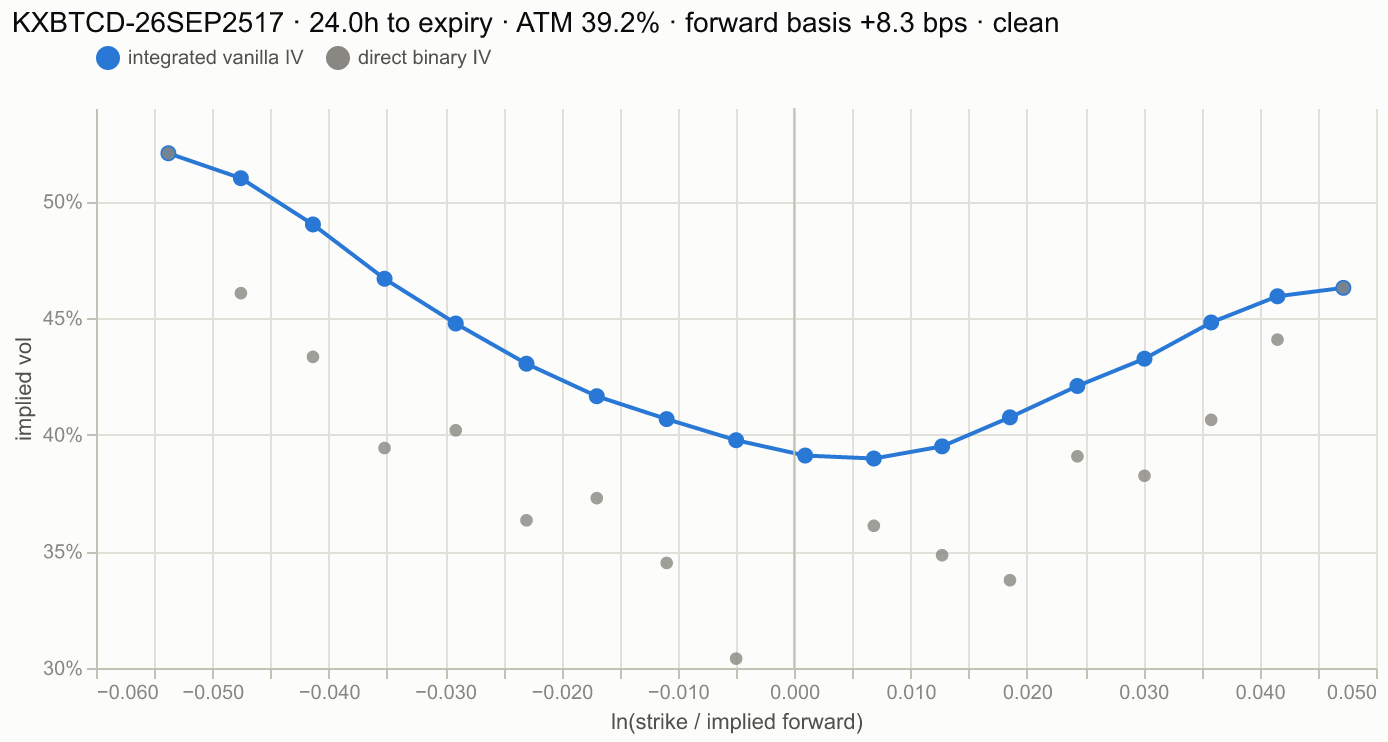
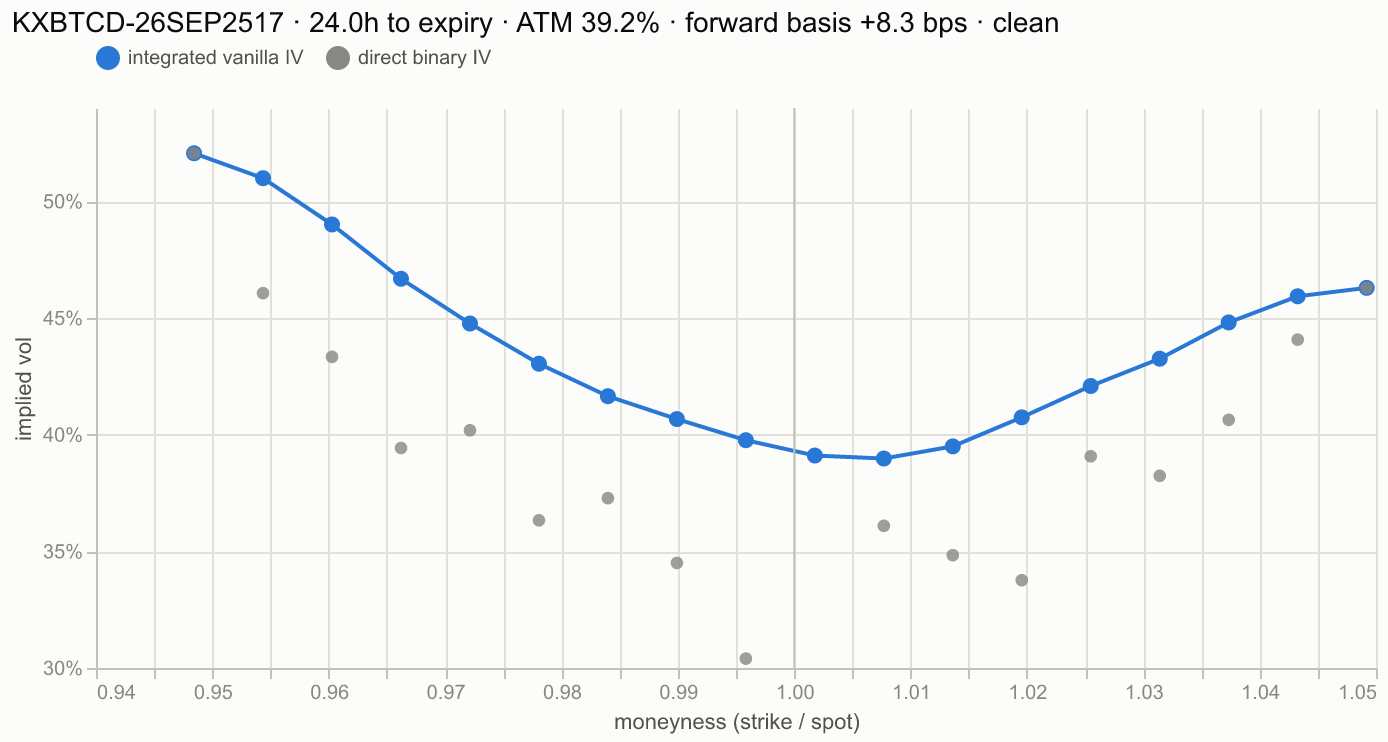
Show the implied-vol surface by moneyness (strike / spot)
- 03_iv_surface.py: smile explorer, heatmap and both 3D surfaces now use
  moneyness = strike / spot on the x-axis (0.85-1.15), replacing
  standard deviations from the forward; the strike table gains a
  moneyness column. Vols are still computed against the forward implied
  by put-call parity.
- outputs/: figures and 3D surface regenerated.
- progress.md: note the moneyness axis.

diff --git a/outputs/iv_surface_3d.html b/outputs/iv_surface_3d.html
@@ -6,6 +6,6 @@
 </head>
 <body>
     <div style="height:600px; width:100%;">                        <script>window.PlotlyConfig = {MathJaxConfig: 'local'};</script>
-        <script charset="utf-8" src="https://cdn.plot.ly/plotly-4.1.1.min.js" integrity="sha256-O24V1F27f8pb0glCkelh3cVHLNiHAJ5gCaVtq2aNch8=" crossorigin="anonymous"></script>                <div id="a7ef97c5-0528-423f-81a9-f02e390c1257" class="plotly-graph-div" style="height:100%; width:100%;"></div>            <script>                window.PLOTLYENV=window.PLOTLYENV || {};                                if (document.getElementById("a7ef97c5-0528-423f-81a9-f02e390c1257")) {                    Plotly.newPlot(                        "a7ef97c5-0528-423f-81a9-f02e390c1257",                        [{"cmax":0.9,"cmin":0.35,"colorbar":{"tickformat":".0%","title":{"text":"IV"}},"colorscale":[[0,"#cde2fb"],[1,"#0d366b"]],"hovertemplate":"SDs from forward %{x:.2f}\u003cbr\u003ehours to expiry %{y:.1f}\u003cbr\u003eimplied vol %{z:.1%}\u003cextra\u003e\u003c\u002fextra\u003e","x":[-2.875,-2.625,-2.375,-2.125,-1.875,-1.625,-1.375,-1.125,-0.875,-0.625,-0.375,-0.125,0.125,0.375,0.625,0.875,1.125,1.375,1.625,1.875,2.125,2.375,2.625,2.875],"y":[1.5,2.5,3.5,5.0,7.0,10.0,14.0,20.0,30.0,42.0,60.0,84.0,108.0,132.0,156.25],"z":{"dtype":"f8","bdata":"AAAAAAAA+H8AAAAAAAD4fwAAAAAAAPh\u002fAAAAAAAA+H8AAAAAAAD4fwAAAAAAAPh\u002fAAAAAAAA+H8AAAAAAAD4fwAAAAAAAPh\u002fAAAAAAAA+H8AAAAAAAD4fwAAAAAAAPh\u002fAAAAAAAA+H8AAAAAAAD4fwAAAAAAAPh\u002fAAAAAAAA+H8AAAAAAAD4fwAAAAAAAPh\u002fAAAAAAAA+H8AAAAAAAD4fwAAAAAAAPh\u002fAAAAAAAA+H8AAAAAAAD4fwAAAAAAAPh\u002fAAAAAAAA+H8AAAAAAAD4fwAAAAAAAPh\u002fAAAAAAAA+H8AAAAAAAD4fwAAAAAAAPh\u002fAAAAAAAA+H8AAAAAAAD4fwAAAAAAAPh\u002fAAAAAAAA+H8AAAAAAAD4fwAAAAAAAPh\u002fAAAAAAAA+H8AAAAAAAD4fwAAAAAAAPh\u002fAAAAAAAA+H8AAAAAAAD4fwAAAAAAAPh\u002fAAAAAAAA+H8AAAAAAAD4fwAAAAAAAPh\u002fAAAAAAAA+H8AAAAAAAD4fwAAAAAAAPh\u002fAAAAAAAA+H+8TRtVIxzzPwK0E6TVQu8\u002fVVWbVFpU7T+82jOJtSTtP3g3iFjgZ+o\u002fBFYpvztj6T\u002feZgIJFZfnPzozrrg5suY\u002fx8dYc+gu5j\u002fCIjyqhVfmP6Wt35YOc+Y\u002fzEAWdVuT5j8OfMNrvoPnP1fYnsUjbeg\u002folS4QYL06T8aacHOmDrsP8JrP7kHAe4\u002ftI\u002fX3YSF7z90M818CLHxP44ls4P1ivE\u002feHgUJ2cC9D8AAAAAAAD4fwAAAAAAAPh\u002fHyH1slBk8D\u002fabUkbd6DvP36WXBpuous\u002fsGTfF3nl6j+SQxSii0XsP5hBWpkLzuk\u002fPNSdP4n06D+CIGCVSQjoP8dzUW+eSec\u002flbvoGAqz5j+s4uksIhPmP6bJNKMWSeY\u002fYFlOkw9F5j8ML0gxTu3lP9qL8SSFyuY\u002f4M+Uv\u002fZE5j8AfpSYNR3nP26jpepAteg\u002fOpI46Lws6T\u002fblDc9vBDpP0CsWm\u002f9Peo\u002f0GO7\u002fJuj7z+zMIEK5ffwPyYNUPkeb\u002fI\u002fy4RvyK2t8T+6PhLB\u002f8\u002fvP7I5VWKMv+w\u002fT9IBuXSa6z8SbrBhLBHqPxULKdcxuOg\u002fpsn\u002fHugB5z9yxodhDGToP7lrR1TOEec\u002fD7qkUPY85j8dnuEw8OblP8olAhLt4uU\u002fM0U\u002f1JiF5T8Of5efsE3lP1U+zc5qw+U\u002f17+XUJ0j5j\u002fwdF5rLLzmP6fgv4F6juc\u002fPY0jyFiL6D8t19aqCDnoP5iKt3vwuuo\u002f7L0NmKwI7D9MCRaGagPuP8adl1HmW\u002fA\u002fYALqu2o98D\u002fuq4ujIv3rP2zVUaJkhuc\u002fRMePxgbN5j8lyqqnw2blP1pmopmvl+Q\u002fcjcGisUj5D8fzXMuFUzjP3QkSHaUNuM\u002f3y30I+Zg4j\u002f2uHpRQwbiP9OeSrhJ+uE\u002fD92+4GYU4j+aQ693PxDiPzYVudUNZuI\u002fJqo1oZPl4j\u002fi6WakWk3jP4h1ixGh8eM\u002f0JOg6LJB5D+5Jg6DEg7lPx6lkDpGbOY\u002fJumZsRIJ6T9QuR\u002fzonzpP9gkJstbE+s\u002f3l4pcFER7T\u002f9pL13fW3pPy2miKIBUOQ\u002ftX\u002flw2Ol4z9uTAKFRmbjP0AZjaJykuI\u002fBgdxcZNK4j+MXfZgHVjhP6ixxJFtE+E\u002fcP8J6+Gs4D90dzDo7HPgPzXt\u002fan\u002fPuA\u002fNiBohpYs4D9de9dcWZbgP+wFFg4ua+A\u002fjsw9UsPv4D+ufZJwcjThP7zrmdXyz+E\u002f2t9pi1o74j9MpvgBIcfiP7J0mMLZP+Q\u002f3i\u002fEYB8d5T9L1DXEHVfoP1NoYw+hz+Y\u002f1adeorNe6j+4PgzZkoDnPxK6nSb+\u002fuI\u002fmxAAWFOY4j+JLmHHtg7iP9jlKJrtv+E\u002fC4oXptA24T9OGvvSg+jgP1jwH2f4h+A\u002fXhGhhVpg4D\u002f+Ir7COxrgPwd22m1wKeA\u002fkIPs09Ee4D8B+P+DQu\u002ffPx2jYbJ6UuA\u002fOhDY6XbD4D\u002fLBnJDiaPgPzKMh4LAJuE\u002fHUOPsoXO4T\u002f54SphJ1biP2r3q06xeOI\u002fOLAOmBTb4z+WmuPJYGPkP4PCSNp9UOg\u002fxkeWffVs6T8gsR2apcbkP3m9ke8G6OM\u002fdH0qIbPA4j\u002fBVxwvKfnhP1\u002feYis6XuE\u002fi\u002fKGEECM4D8K0nfh4GLgPyiH4zfFAuA\u002f+mdOtZo83z\u002fgQQo7+g3fP25sK5m\u002fnd4\u002f28G7Oa6+3j9GobGieuDeP7X34bq7P98\u002fyLZxVbAg4D\u002f+OjXrRHzgP0hz9EVf2uA\u002fbrDnoEZ24T+gHZ0nLMThP76fOfNGZ+I\u002f9mHGZ+Aj4z8q+E2mIeXkP3waeru9d+c\u002f\u002fln1Xjyc5z\u002fmJ3Om3gfkPxGPN0BYAOM\u002fVvkilOoL4j80P\u002fb6IYbhP+C3fqAV6+A\u002fvA7Hr5NT4D\u002f4uZm0TGnfP0kfJ5Wxh94\u002fxEdLpI293T9MwWXb1Z\u002fcPzBHR6\u002fXT9w\u002fKDx4wutp3D8g89Lcy27cP+b19Zij99w\u002fOEooXDyQ3T\u002f4ITRWp17eP5CdGbBYNd8\u002fQMU3eKUi4D\u002fq\u002fQSjIXngPw3lRmTwx+A\u002fFE8DUitp4T9Kwbu4PTbjP\u002fDzuCsOBuQ\u002fGn9KZ9Na6T+aiGfPKhDmP6qLNoofg+I\u002fHdFsb1Ol4T84Qho2cEXhP8v+WtU+t+A\u002f9OqfEWBG4D8wKNnwr5\u002ffP8Iaaxx1vd4\u002f\u002frUb4UW\u002f3T+aNB2PSE7dPxjRwOZD\u002fNw\u002fCu3m+Ha73D+FQmwQE\u002fPcP4U+afCmQt0\u002fXvChoZfg3T9CxHJI1KPeP1ZyO1U9id8\u002fIgnV0DNE4D9QSCvJWIjgP4FhG0aFxeE\u002f+JWTe3oa4z+YZ+RGkZbjP6MeSZFsEeY\u002fhHtRrp5Q5j9nShdy5CzmP0QPgBb74+I\u002fQhfIoYno4T+gS6h3VHrhPwAXR+MStuA\u002fkfGFZsci4D\u002fSOGnR6B7fP0eNV+OKPN4\u002fKon2Fry43T9QfHOouyndP9NtJqZRm9w\u002fOFoFZ76N3D9kJet9VoPcP0ReHmdY6tw\u002feXZZLefM3D\u002f4jPFsiJzdPw4se9KnbN4\u002fLnwhsolC3z8oGr56dOPfPyAK6JNZmeA\u002f0kuA6cwS4j8giH+lYpbhP428U8y4huE\u002fNtpSHUuS5D8aUEp87qLjP5T\u002fB6rkFuI\u002f5OpV\u002fVtQ4T8mMGst6dbgP9IwjsqNYuA\u002fNGdFUraW3z+V3LZavZXeP0atAkL24t0\u002f4K1S5XoO3T+S3UsRxVbcP1b6i2JB0Ns\u002fjuiFIzeZ2z\u002fSf7EFLaLbP0cWMjMixts\u002fYh\u002f6kbAH3D+asMgR3mbcP\u002fCMnmHC8Nw\u002fqj46hD+a3T8s2EUvz1PePwZBGodDpN8\u002flnaRsRGp4D\u002fEeR8ZKODgP6CsvneiE+M\u002fnvPCS\u002fTF4j\u002f8c31hayviPxag\u002fh9XrOE\u002fh1jTGI0N4T\u002firLN0NNHgP0Skb9f5VuA\u002fOV2iJApq3z+At6qa36XePzZimgSol90\u002fShcKuPv93D9byPGSikncPwZivA5Yh9s\u002fKFXdVWU12z8eO7GtagXbP8iOeKoKDts\u002fehNeIjpv2z+odpuu2V3bP7+XGmh5lNs\u002fLQPqSG7i2z8mVRrMt\u002fLbP2LcKYLdZNs\u002fBSU24YXK2z8mVzc2nMXcPwAAAAAAAPh\u002fiMxIabGS4j+0GZ+2TsvhPwy1bT3rmeA\u002fNmMyqb494D9AdMrCr9XfP1TfHIlold4\u002fOiGMs5hU3T9YONdrWlPcP7MDu5PGd9s\u002f3WJ+dcee2j8MUelZKPPZP6RB7MqaT9k\u002fRKtLtkzs2D94V2SOunTYP9egZ4DDTNg\u002f7iktSaFL2D+gPZwvFlzYPwCFjtiIltg\u002fgIGksFH42D+ETmgrSKjZP+kFik2eTdo\u002fN8\u002f5vjGk2z\u002f6TvurHC\u002fdPwAAAAAAAPh\u002f","shape":"15, 24"},"type":"surface"}],                        {"template":{"data":{"histogram2dcontour":[{"type":"histogram2dcontour","colorbar":{"outlinewidth":0,"ticks":""},"colorscale":[[0.0,"#0d0887"],[0.1111111111111111,"#46039f"],[0.2222222222222222,"#7201a8"],[0.3333333333333333,"#9c179e"],[0.4444444444444444,"#bd3786"],[0.5555555555555556,"#d8576b"],[0.6666666666666666,"#ed7953"],[0.7777777777777778,"#fb9f3a"],[0.8888888888888888,"#fdca26"],[1.0,"#f0f921"]]}],"choropleth":[{"type":"choropleth","colorbar":{"outlinewidth":0,"ticks":""}}],"histogram2d":[{"type":"histogram2d","colorbar":{"outlinewidth":0,"ticks":""},"colorscale":[[0.0,"#0d0887"],[0.1111111111111111,"#46039f"],[0.2222222222222222,"#7201a8"],[0.3333333333333333,"#9c179e"],[0.4444444444444444,"#bd3786"],[0.5555555555555556,"#d8576b"],[0.6666666666666666,"#ed7953"],[0.7777777777777778,"#fb9f3a"],[0.8888888888888888,"#fdca26"],[1.0,"#f0f921"]]}],"heatmap":[{"type":"heatmap","colorbar":{"outlinewidth":0,"ticks":""},"colorscale":[[0.0,"#0d0887"],[0.1111111111111111,"#46039f"],[0.2222222222222222,"#7201a8"],[0.3333333333333333,"#9c179e"],[0.4444444444444444,"#bd3786"],[0.5555555555555556,"#d8576b"],[0.6666666666666666,"#ed7953"],[0.7777777777777778,"#fb9f3a"],[0.8888888888888888,"#fdca26"],[1.0,"#f0f921"]]}],"contourcarpet":[{"type":"contourcarpet","colorbar":{"outlinewidth":0,"ticks":""}}],"contour":[{"type":"contour","colorbar":{"outlinewidth":0,"ticks":""},"colorscale":[[0.0,"#0d0887"],[0.1111111111111111,"#46039f"],[0.2222222222222222,"#7201a8"],[0.3333333333333333,"#9c179e"],[0.4444444444444444,"#bd3786"],[0.5555555555555556,"#d8576b"],[0.6666666666666666,"#ed7953"],[0.7777777777777778,"#fb9f3a"],[0.8888888888888888,"#fdca26"],[1.0,"#f0f921"]]}],"surface":[{"type":"surface","colorbar":{"outlinewidth":0,"ticks":""},"colorscale":[[0.0,"#0d0887"],[0.1111111111111111,"#46039f"],[0.2222222222222222,"#7201a8"],[0.3333333333333333,"#9c179e"],[0.4444444444444444,"#bd3786"],[0.5555555555555556,"#d8576b"],[0.6666666666666666,"#ed7953"],[0.7777777777777778,"#fb9f3a"],[0.8888888888888888,"#fdca26"],[1.0,"#f0f921"]]}],"mesh3d":[{"type":"mesh3d","colorbar":{"outlinewidth":0,"ticks":""}}],"scatter":[{"fillpattern":{"fillmode":"overlay","size":10,"solidity":0.2},"type":"scatter"}],"parcoords":[{"type":"parcoords","line":{"colorbar":{"outlinewidth":0,"ticks":""}}}],"scatterpolargl":[{"type":"scatterpolargl","marker":{"colorbar":{"outlinewidth":0,"ticks":""}}}],"bar":[{"error_x":{"color":"#2a3f5f"},"error_y":{"color":"#2a3f5f"},"marker":{"line":{"color":"#E5ECF6","width":0.5},"pattern":{"fillmode":"overlay","size":10,"solidity":0.2}},"type":"bar"}],"scattergeo":[{"type":"scattergeo","marker":{"colorbar":{"outlinewidth":0,"ticks":""}}}],"scatterpolar":[{"type":"scatterpolar","marker":{"colorbar":{"outlinewidth":0,"ticks":""}}}],"histogram":[{"marker":{"pattern":{"fillmode":"overlay","size":10,"solidity":0.2}},"type":"histogram"}],"scattergl":[{"type":"scattergl","marker":{"colorbar":{"outlinewidth":0,"ticks":""}}}],"scatter3d":[{"type":"scatter3d","line":{"colorbar":{"outlinewidth":0,"ticks":""}},"marker":{"colorbar":{"outlinewidth":0,"ticks":""}}}],"scattermap":[{"type":"scattermap","marker":{"colorbar":{"outlinewidth":0,"ticks":""}}}],"scatterternary":[{"type":"scatterternary","marker":{"colorbar":{"outlinewidth":0,"ticks":""}}}],"scattercarpet":[{"type":"scattercarpet","marker":{"colorbar":{"outlinewidth":0,"ticks":""}}}],"carpet":[{"aaxis":{"endlinecolor":"#2a3f5f","gridcolor":"white","linecolor":"white","minorgridcolor":"white","startlinecolor":"#2a3f5f"},"baxis":{"endlinecolor":"#2a3f5f","gridcolor":"white","linecolor":"white","minorgridcolor":"white","startlinecolor":"#2a3f5f"},"type":"carpet"}],"table":[{"cells":{"fill":{"color":"#EBF0F8"},"line":{"color":"white"}},"header":{"fill":{"color":"#C8D4E3"},"line":{"color":"white"}},"type":"table"}],"barpolar":[{"marker":{"line":{"color":"#E5ECF6","width":0.5},"pattern":{"fillmode":"overlay","size":10,"solidity":0.2}},"type":"barpolar"}],"pie":[{"automargin":true,"type":"pie"}]},"layout":{"autotypenumbers":"strict","colorway":["#636efa","#EF553B","#00cc96","#ab63fa","#FFA15A","#19d3f3","#FF6692","#B6E880","#FF97FF","#FECB52"],"font":{"color":"#2a3f5f"},"hovermode":"closest","hoverlabel":{"align":"left"},"paper_bgcolor":"white","plot_bgcolor":"#E5ECF6","polar":{"bgcolor":"#E5ECF6","angularaxis":{"gridcolor":"white","linecolor":"white","ticks":""},"radialaxis":{"gridcolor":"white","linecolor":"white","ticks":""}},"ternary":{"bgcolor":"#E5ECF6","aaxis":{"gridcolor":"white","linecolor":"white","ticks":""},"baxis":{"gridcolor":"white","linecolor":"white","ticks":""},"caxis":{"gridcolor":"white","linecolor":"white","ticks":""}},"coloraxis":{"colorbar":{"outlinewidth":0,"ticks":""}},"colorscale":{"sequential":[[0.0,"#0d0887"],[0.1111111111111111,"#46039f"],[0.2222222222222222,"#7201a8"],[0.3333333333333333,"#9c179e"],[0.4444444444444444,"#bd3786"],[0.5555555555555556,"#d8576b"],[0.6666666666666666,"#ed7953"],[0.7777777777777778,"#fb9f3a"],[0.8888888888888888,"#fdca26"],[1.0,"#f0f921"]],"sequentialminus":[[0.0,"#0d0887"],[0.1111111111111111,"#46039f"],[0.2222222222222222,"#7201a8"],[0.3333333333333333,"#9c179e"],[0.4444444444444444,"#bd3786"],[0.5555555555555556,"#d8576b"],[0.6666666666666666,"#ed7953"],[0.7777777777777778,"#fb9f3a"],[0.8888888888888888,"#fdca26"],[1.0,"#f0f921"]],"diverging":[[0,"#8e0152"],[0.1,"#c51b7d"],[0.2,"#de77ae"],[0.3,"#f1b6da"],[0.4,"#fde0ef"],[0.5,"#f7f7f7"],[0.6,"#e6f5d0"],[0.7,"#b8e186"],[0.8,"#7fbc41"],[0.9,"#4d9221"],[1,"#276419"]]},"xaxis":{"gridcolor":"white","linecolor":"white","ticks":"","title":{"standoff":15},"zerolinecolor":"white","automargin":true,"zerolinewidth":2},"yaxis":{"gridcolor":"white","linecolor":"white","ticks":"","title":{"standoff":15},"zerolinecolor":"white","automargin":true,"zerolinewidth":2},"scene":{"xaxis":{"backgroundcolor":"#E5ECF6","gridcolor":"white","linecolor":"white","showbackground":true,"ticks":"","zerolinecolor":"white","gridwidth":2},"yaxis":{"backgroundcolor":"#E5ECF6","gridcolor":"white","linecolor":"white","showbackground":true,"ticks":"","zerolinecolor":"white","gridwidth":2},"zaxis":{"backgroundcolor":"#E5ECF6","gridcolor":"white","linecolor":"white","showbackground":true,"ticks":"","zerolinecolor":"white","gridwidth":2}},"shapedefaults":{"line":{"color":"#2a3f5f"}},"annotationdefaults":{"arrowcolor":"#2a3f5f","arrowhead":0,"arrowwidth":1},"geo":{"bgcolor":"white","landcolor":"#E5ECF6","subunitcolor":"white","showland":true,"showlakes":true,"lakecolor":"white"},"title":{"x":0.05}}},"margin":{"l":0,"r":0,"t":50,"b":0},"font":{"family":"system-ui, -apple-system, Segoe UI, sans-serif","color":"#52514e"},"scene":{"yaxis":{"title":{"text":"hours to expiry"},"type":"log"},"zaxis":{"title":{"text":"implied vol"},"tickformat":".0%"},"camera":{"eye":{"x":1.7,"y":-1.5,"z":0.8}},"xaxis":{"title":{"text":"SDs from forward"}}},"title":{"text":"Implied-vol surface: median across all clean snapshots"},"height":600,"paper_bgcolor":"#fcfcfb"},                        {"responsive": true}                    )                };            </script>        </div>
+        <script charset="utf-8" src="https://cdn.plot.ly/plotly-4.1.1.min.js" integrity="sha256-O24V1F27f8pb0glCkelh3cVHLNiHAJ5gCaVtq2aNch8=" crossorigin="anonymous"></script>                <div id="6522d621-6a7b-4754-9c32-693e2853a7bc" class="plotly-graph-div" style="height:100%; width:100%;"></div>            <script>                window.PLOTLYENV=window.PLOTLYENV || {};                                if (document.getElementById("6522d621-6a7b-4754-9c32-693e2853a7bc")) {                    Plotly.newPlot(                        "6522d621-6a7b-4754-9c32-693e2853a7bc",                        [{"cmax":0.9,"cmin":0.35,"colorbar":{"tickformat":".0%","title":{"text":"IV"}},"colorscale":[[0,"#cde2fb"],[1,"#0d366b"]],"hovertemplate":"moneyness %{x:.3f}\u003cbr\u003ehours to expiry %{y:.1f}\u003cbr\u003eimplied vol %{z:.1%}\u003cextra\u003e\u003c\u002fextra\u003e","x":[0.855,0.865,0.875,0.885,0.895,0.905,0.915,0.925,0.935,0.945,0.955,0.965,0.975,0.985,0.995,1.005,1.0150000000000001,1.025,1.0350000000000001,1.045,1.0550000000000002,1.065,1.0750000000000002,1.085,1.0950000000000002,1.105,1.1150000000000002,1.125,1.1349999999999998,1.145],"y":[1.5,2.5,3.5,5.0,7.0,10.0,14.0,20.0,30.0,42.0,60.0,84.0,108.0,132.0,156.25],"z":{"dtype":"f8","bdata":"AAAAAAAA+H8AAAAAAAD4fwAAAAAAAPh\u002fAAAAAAAA+H8AAAAAAAD4fwAAAAAAAPh\u002fAAAAAAAA+H8AAAAAAAD4fwAAAAAAAPh\u002fAAAAAAAA+H8AAAAAAAD4fwAAAAAAAPh\u002fAAAAAAAA+H+YZZcZ5unpP7wMximMReU\u002ftRY8nzMw5z\u002f6qtPBoSjvPwAAAAAAAPh\u002fAAAAAAAA+H8AAAAAAAD4fwAAAAAAAPh\u002fAAAAAAAA+H8AAAAAAAD4fwAAAAAAAPh\u002fAAAAAAAA+H8AAAAAAAD4fwAAAAAAAPh\u002fAAAAAAAA+H8AAAAAAAD4fwAAAAAAAPh\u002fAAAAAAAA+H8AAAAAAAD4fwAAAAAAAPh\u002fAAAAAAAA+H8AAAAAAAD4fwAAAAAAAPh\u002fAAAAAAAA+H8AAAAAAAD4fwAAAAAAAPh\u002fAAAAAAAA+H8AAAAAAAD4fwAAAAAAAPh\u002fSFf3Kohl8j9dO5\u002fPYvbnPzVH82tTbeU\u002fQoyFYHNi5j+s4gdIHObqP89YtcLKR\u002fA\u002fAAAAAAAA+H8AAAAAAAD4fwAAAAAAAPh\u002fAAAAAAAA+H8AAAAAAAD4fwAAAAAAAPh\u002fAAAAAAAA+H8AAAAAAAD4fwAAAAAAAPh\u002fAAAAAAAA+H8AAAAAAAD4fwAAAAAAAPh\u002fAAAAAAAA+H8AAAAAAAD4fwAAAAAAAPh\u002fAAAAAAAA+H8AAAAAAAD4fwAAAAAAAPh\u002fAAAAAAAA+H8AAAAAAAD4fwAAAAAAAPh\u002fAAAAAAAA+H9G09M5h6n2Pyp6TIrpuvE\u002f\u002fFEu6uYF7T\u002f4NGQblwjoP7r0aDL8iOU\u002f1LRSdlGA5j8oY9YPTtLpP+ifYsQJbO8\u002fiD9ZmR1u8z+MpSfXUy72P+Y5Ajyv3Pc\u002fAAAAAAAA+H8AAAAAAAD4fwAAAAAAAPh\u002fAAAAAAAA+H8AAAAAAAD4fwAAAAAAAPh\u002fAAAAAAAA+H8AAAAAAAD4fwAAAAAAAPh\u002fAAAAAAAA+H8AAAAAAAD4fwAAAAAAAPh\u002fAAAAAAAA+H8AAAAAAAD4fwAAAAAAAPh\u002fAAAAAAAA+H8AAAAAAAD4fwAAAAAAAPh\u002frApkuA7\u002f8z9TKoKXaw7xP4haNTjzaO0\u002fDisNuKKE6T\u002fJLaa8Jb3mP774\u002fg\u002fHguU\u002fMq3S6xpA5T86V46FUePlP83HKv2CIeg\u002fmv75qhst7j+ixhm88v7xP3P9GSEANvM\u002fm+zXObpB9T8AAAAAAAD4fwAAAAAAAPh\u002fAAAAAAAA+H8AAAAAAAD4fwAAAAAAAPh\u002fAAAAAAAA+H8AAAAAAAD4fwAAAAAAAPh\u002fAAAAAAAA+H8AAAAAAAD4fwAAAAAAAPh\u002fAAAAAAAA+H8AAAAAAAD4fwAAAAAAAPh\u002fAAAAAAAA+H9mErok6PT1PxQXNqCk8\u002fM\u002fVNsEOWE88j+1+JSC9u7vP67fI+TKwes\u002fqCzJY3ME5z8MfmV5flvkP+vKF\u002fs0IeM\u002fqj2IO7fw4j\u002fkhpSYeAfkPw+2Vn1cMOY\u002fW7p0YKEu6T9IKtck7M\u002ftPxeh45JEB\u002fI\u002fWgfh\u002froA8z8AAAAAAAD4fwAAAAAAAPh\u002fAAAAAAAA+H8AAAAAAAD4fwAAAAAAAPh\u002fAAAAAAAA+H8AAAAAAAD4fwAAAAAAAPh\u002fAAAAAAAA+H8AAAAAAAD4fwAAAAAAAPh\u002fAAAAAAAA+H8AAAAAAAD4fwAAAAAAAPh\u002fCv8By+U59T8tCGKtiCz0P2LEOLYdXPM\u002fiIomF\u002f2T8D\u002fPknxBj83pPxh0i50q\u002fuU\u002feCePO0ND4z8gKaOZVrPhPxCr6YsQkOA\u002fnbMsFpPU4D8oHKzV87\u002fhPzvqLdmEA+M\u002fIm+2gYpI5T+y\u002fprLdpXoPwgtU2ZeL+0\u002fRepdntEd8T\u002f8zDlbuDHyP80LkMT2IfQ\u002fAAAAAAAA+H8AAAAAAAD4fwAAAAAAAPh\u002fAAAAAAAA+H8AAAAAAAD4fwAAAAAAAPh\u002fAAAAAAAA+H8AAAAAAAD4fwAAAAAAAPh\u002fAAAAAAAA+H8AAAAAAAD4fwAAAAAAAPh\u002fRF0YIas48j\u002fGOLQSIYvvPxX\u002f1kZWRe0\u002f+OYAbmhr6z+Eom3xcYflP1wdOnNBpeI\u002fncqJyKxB4T\u002fEhuerkvXfP5p5AXO2zd4\u002f9rI6dnyB3j9wkXq++ojfP4h+iCI0seA\u002f2BkL6DA54j8dr\u002fIFfSvlP9blgUMTtuc\u002fAm6l4UG76z8+rCT8+g3vP2beWzsWM\u002fE\u002fAAAAAAAA+H8AAAAAAAD4fwAAAAAAAPh\u002fAAAAAAAA+H8AAAAAAAD4fwAAAAAAAPh\u002fAAAAAAAA+H8AAAAAAAD4fwAAAAAAAPh\u002fAAAAAAAA+H8AAAAAAAD4f9CD9PoqwPA\u002fHi7DCKK97j9UQNdsGETsP\u002f6MHNraG+k\u002ffL0ksKAQ5z9ryGvgyn\u002fjP9937JLr6uA\u002foBQ1N+bM3z\u002fe8t5sBDTeP0Ix0M0+Td0\u002fuisyeHZW3T+hO3NTTl3eP3j4PXv43t8\u002faDvAE5PW4D966MOLmeHiPzrrkCypJOU\u002fcFxFoXB75z\u002fbDemaf83oP\u002f7zn6JVKuw\u002fnsch3kug7j8AAAAAAAD4fwAAAAAAAPh\u002fAAAAAAAA+H8AAAAAAAD4fwAAAAAAAPh\u002fljT9m2VN9T\u002f+QHls7mT0P+T4J2p8gPI\u002ffn\u002feKowE8j9QORrRyvDwP2srYvTu2O4\u002fL6fla7aK7D\u002fgx7JrHpHoP8yvVxuZZeU\u002fCjBkPFZF4z+Gfl2b9o3hP8QOjM7SSOA\u002fPLZYgRbQ3j+M4TI0ZGPdPxigkq7eAN0\u002f2l+ZiMP13D9ejoLiM3LdP1ahUYCvcN4\u002fmJqiAsnr3z+6YQWJ4RThP8d6jhTdZ+I\u002fGq9uaUFP5D\u002fxSauX\u002fnPmP6nNXJFxqOg\u002fjPtoZZ8L6z8chB5dugruP8TkZ3s0CvA\u002fLKTfEPaO8D9gost3TMbwPwAAAAAAAPh\u002fvLYbI4rc9D9Lc55habrzP0yVAJZgPvI\u002fzHrmTHRv7j9EyRSH2SfrPwTxQBMfLOk\u002fWkBCVaxe5z8SeZsXutPkP1QOpyl\u002f9uI\u002fs4aywh6I4T85O3Eb90rgP136Y\u002fGi4t4\u002fGfzkZV6Q3T\u002fgRfJ9iHTcPyd6aTP\u002fmds\u002f2kQFsixD2z8ETMV5eZbbP1LkEtfvDNw\u002fgqskspAd3T8I1tgaV3\u002fePyKN2KDhF+A\u002fLbzgFK8i4T8CkQ0s3J3iPz0eSnrG1eQ\u002f\u002ffAZoFqi5j\u002fr9TeclfHnPygm5aiz1Oo\u002fACkyvxIL7D9WCaIWaXbwPwAAAAAAAPh\u002feKy+61Rp7j\u002fLPWzqByztP5iBx6nBFuw\u002fik13eGzc6j\u002fY\u002f1oLdRXpPzRrtoyf5+Y\u002fXktUhR3U5D+TYUw0h+niPy2UZSouUOE\u002fSnR8q0RD4D+EjuF55hTfPx9\u002fyl2P4d0\u002fwBgueQ0K3T95am+SsXrcP5K9RjxWw9s\u002f5q4Oy4B+2z\u002fuShEE2KjbPyTTK6+dDtw\u002fhYoguBmm3D+JBCW88XDdP2aq+D3N7d4\u002fIGkG9l5T4D\u002fWPCB3+4bhP56uRp46tuI\u002fFDZcXIVe5D8vd6N\u002fMIPlPyjyFG0nPeY\u002fZGC4V9JK5z8KdnD2IkXoP\u002fQzyohM0+g\u002fHkO6s2jI6j9Cuw1wrRjqP80yuiXmcug\u002fMbyinNte5z\u002fqJca9bhfmP9I9Z8AFCeQ\u002fBR0RSDOK4j\u002fyzqk32h7hPwmIAnJSPuA\u002fpNmlsjAU3z+ENakH88ndPxBvgYrZydw\u002fbp00dCsB3D8mPc48lzHbP5p3+lyVk9o\u002f0lfhbi932j\u002fk\u002fzTHl63aP5i0PGnz9No\u002ffC1ZXHk+2z9NDvKXB+XbP6JTCLSt2tw\u002f5JJ52LMU3j9+x\u002f1K9R3fP9I1hLpRe+A\u002fSKXdBtTK4T82qm7tyiPjP+QedWM0HuQ\u002ftBtgwAz95D+llIWtvKrlPxEcIlK2Mec\u002f2lty6Sn76T8wkN\u002feUOXoP8IVPw5eV+c\u002fDHFgBXRa5T+pQU9MdWvjP7RynWDM3eE\u002flKzY6WHp4D\u002fefSOgFC3gPz6wl4raUN8\u002f5NaWCLFI3j9urMzJk1XdPwnV+6KVfNw\u002fM2y+fay72z93mi8D7xrbPwHfPsW3iNo\u002foQpqpOU+2j8X91rNT1vaP3SqcGiqeto\u002f\u002f1OkNAvj2j91b63fKUzbPzt0RrX7uts\u002fo0pa87JX3D\u002fztGWRDBndP+N0uuptUt4\u002fdF8J1a4k4D+6sATnoIjhP1rTbU\u002f0teI\u002fPm2\u002fCv+c4z\u002fqNZmSCjXkP4ZLi691zeQ\u002fAyIVkvo15z8U0YFS6WzmP0olRUVtpOQ\u002f9CbtTFau4j8kK3RhRvzhPxTPg0NPE+E\u002fRyk0O0pc4D95Fo8qBSPfP9E8u8WfDN4\u002f1sj3k+9f3T+8ybvhASvcP+v9pjk\u002fwts\u002fvZvlG9Yj2z8cpmg9ZI7aP4yrhD6PvNk\u002fsoUIZk6F2T9KVRh4d4jZP+o+vst3ftk\u002fQHye9rl72T\u002fgA5kokMXZP3XzPmKnEto\u002fiLB9lnto2j8KXVof3h3bP9RfV1Qxy9s\u002furmMsZSl3T+wxE5bu27fP+YtZWBM0uA\u002fHDIaZuuM4T+gqoqIPFDiP8KOLzexOOM\u002fmlLkKQuA5D984eT32C\u002fkP4f\u002fkKrZveI\u002f8hUzld6o4T+uTV1hfwDhPy6O3w3qEuA\u002fTtuhburw3j9MLZFPyXjdPxhvALbXdtw\u002fmS3YPFBd2z8WK239KoDaPxfsCCW+stk\u002fwnHXE3xH2T\u002f15gxF6\u002fbYP07s54dqS9g\u002f4gkwhPDT1z8MIIz2odbXPx5Ct4LDfNc\u002fD2GBePd41z\u002fWeoOtOJzXP4qZCN5N8dc\u002f3rbyXzkM2D8l+kexIYrYP6azwDeGH9k\u002fnod5ilAh2j\u002fWXplUyTDdPz5X8DVA094\u002feEoMBCMe4D8UyXJXZsjhPzFNCnUxZ+I\u002f","shape":"15, 30"},"type":"surface"}],                        {"template":{"data":{"histogram2dcontour":[{"type":"histogram2dcontour","colorbar":{"outlinewidth":0,"ticks":""},"colorscale":[[0.0,"#0d0887"],[0.1111111111111111,"#46039f"],[0.2222222222222222,"#7201a8"],[0.3333333333333333,"#9c179e"],[0.4444444444444444,"#bd3786"],[0.5555555555555556,"#d8576b"],[0.6666666666666666,"#ed7953"],[0.7777777777777778,"#fb9f3a"],[0.8888888888888888,"#fdca26"],[1.0,"#f0f921"]]}],"choropleth":[{"type":"choropleth","colorbar":{"outlinewidth":0,"ticks":""}}],"histogram2d":[{"type":"histogram2d","colorbar":{"outlinewidth":0,"ticks":""},"colorscale":[[0.0,"#0d0887"],[0.1111111111111111,"#46039f"],[0.2222222222222222,"#7201a8"],[0.3333333333333333,"#9c179e"],[0.4444444444444444,"#bd3786"],[0.5555555555555556,"#d8576b"],[0.6666666666666666,"#ed7953"],[0.7777777777777778,"#fb9f3a"],[0.8888888888888888,"#fdca26"],[1.0,"#f0f921"]]}],"heatmap":[{"type":"heatmap","colorbar":{"outlinewidth":0,"ticks":""},"colorscale":[[0.0,"#0d0887"],[0.1111111111111111,"#46039f"],[0.2222222222222222,"#7201a8"],[0.3333333333333333,"#9c179e"],[0.4444444444444444,"#bd3786"],[0.5555555555555556,"#d8576b"],[0.6666666666666666,"#ed7953"],[0.7777777777777778,"#fb9f3a"],[0.8888888888888888,"#fdca26"],[1.0,"#f0f921"]]}],"contourcarpet":[{"type":"contourcarpet","colorbar":{"outlinewidth":0,"ticks":""}}],"contour":[{"type":"contour","colorbar":{"outlinewidth":0,"ticks":""},"colorscale":[[0.0,"#0d0887"],[0.1111111111111111,"#46039f"],[0.2222222222222222,"#7201a8"],[0.3333333333333333,"#9c179e"],[0.4444444444444444,"#bd3786"],[0.5555555555555556,"#d8576b"],[0.6666666666666666,"#ed7953"],[0.7777777777777778,"#fb9f3a"],[0.8888888888888888,"#fdca26"],[1.0,"#f0f921"]]}],"surface":[{"type":"surface","colorbar":{"outlinewidth":0,"ticks":""},"colorscale":[[0.0,"#0d0887"],[0.1111111111111111,"#46039f"],[0.2222222222222222,"#7201a8"],[0.3333333333333333,"#9c179e"],[0.4444444444444444,"#bd3786"],[0.5555555555555556,"#d8576b"],[0.6666666666666666,"#ed7953"],[0.7777777777777778,"#fb9f3a"],[0.8888888888888888,"#fdca26"],[1.0,"#f0f921"]]}],"mesh3d":[{"type":"mesh3d","colorbar":{"outlinewidth":0,"ticks":""}}],"scatter":[{"fillpattern":{"fillmode":"overlay","size":10,"solidity":0.2},"type":"scatter"}],"parcoords":[{"type":"parcoords","line":{"colorbar":{"outlinewidth":0,"ticks":""}}}],"scatterpolargl":[{"type":"scatterpolargl","marker":{"colorbar":{"outlinewidth":0,"ticks":""}}}],"bar":[{"error_x":{"color":"#2a3f5f"},"error_y":{"color":"#2a3f5f"},"marker":{"line":{"color":"#E5ECF6","width":0.5},"pattern":{"fillmode":"overlay","size":10,"solidity":0.2}},"type":"bar"}],"scattergeo":[{"type":"scattergeo","marker":{"colorbar":{"outlinewidth":0,"ticks":""}}}],"scatterpolar":[{"type":"scatterpolar","marker":{"colorbar":{"outlinewidth":0,"ticks":""}}}],"histogram":[{"marker":{"pattern":{"fillmode":"overlay","size":10,"solidity":0.2}},"type":"histogram"}],"scattergl":[{"type":"scattergl","marker":{"colorbar":{"outlinewidth":0,"ticks":""}}}],"scatter3d":[{"type":"scatter3d","line":{"colorbar":{"outlinewidth":0,"ticks":""}},"marker":{"colorbar":{"outlinewidth":0,"ticks":""}}}],"scattermap":[{"type":"scattermap","marker":{"colorbar":{"outlinewidth":0,"ticks":""}}}],"scatterternary":[{"type":"scatterternary","marker":{"colorbar":{"outlinewidth":0,"ticks":""}}}],"scattercarpet":[{"type":"scattercarpet","marker":{"colorbar":{"outlinewidth":0,"ticks":""}}}],"carpet":[{"aaxis":{"endlinecolor":"#2a3f5f","gridcolor":"white","linecolor":"white","minorgridcolor":"white","startlinecolor":"#2a3f5f"},"baxis":{"endlinecolor":"#2a3f5f","gridcolor":"white","linecolor":"white","minorgridcolor":"white","startlinecolor":"#2a3f5f"},"type":"carpet"}],"table":[{"cells":{"fill":{"color":"#EBF0F8"},"line":{"color":"white"}},"header":{"fill":{"color":"#C8D4E3"},"line":{"color":"white"}},"type":"table"}],"barpolar":[{"marker":{"line":{"color":"#E5ECF6","width":0.5},"pattern":{"fillmode":"overlay","size":10,"solidity":0.2}},"type":"barpolar"}],"pie":[{"automargin":true,"type":"pie"}]},"layout":{"autotypenumbers":"strict","colorway":["#636efa","#EF553B","#00cc96","#ab63fa","#FFA15A","#19d3f3","#FF6692","#B6E880","#FF97FF","#FECB52"],"font":{"color":"#2a3f5f"},"hovermode":"closest","hoverlabel":{"align":"left"},"paper_bgcolor":"white","plot_bgcolor":"#E5ECF6","polar":{"bgcolor":"#E5ECF6","angularaxis":{"gridcolor":"white","linecolor":"white","ticks":""},"radialaxis":{"gridcolor":"white","linecolor":"white","ticks":""}},"ternary":{"bgcolor":"#E5ECF6","aaxis":{"gridcolor":"white","linecolor":"white","ticks":""},"baxis":{"gridcolor":"white","linecolor":"white","ticks":""},"caxis":{"gridcolor":"white","linecolor":"white","ticks":""}},"coloraxis":{"colorbar":{"outlinewidth":0,"ticks":""}},"colorscale":{"sequential":[[0.0,"#0d0887"],[0.1111111111111111,"#46039f"],[0.2222222222222222,"#7201a8"],[0.3333333333333333,"#9c179e"],[0.4444444444444444,"#bd3786"],[0.5555555555555556,"#d8576b"],[0.6666666666666666,"#ed7953"],[0.7777777777777778,"#fb9f3a"],[0.8888888888888888,"#fdca26"],[1.0,"#f0f921"]],"sequentialminus":[[0.0,"#0d0887"],[0.1111111111111111,"#46039f"],[0.2222222222222222,"#7201a8"],[0.3333333333333333,"#9c179e"],[0.4444444444444444,"#bd3786"],[0.5555555555555556,"#d8576b"],[0.6666666666666666,"#ed7953"],[0.7777777777777778,"#fb9f3a"],[0.8888888888888888,"#fdca26"],[1.0,"#f0f921"]],"diverging":[[0,"#8e0152"],[0.1,"#c51b7d"],[0.2,"#de77ae"],[0.3,"#f1b6da"],[0.4,"#fde0ef"],[0.5,"#f7f7f7"],[0.6,"#e6f5d0"],[0.7,"#b8e186"],[0.8,"#7fbc41"],[0.9,"#4d9221"],[1,"#276419"]]},"xaxis":{"gridcolor":"white","linecolor":"white","ticks":"","title":{"standoff":15},"zerolinecolor":"white","automargin":true,"zerolinewidth":2},"yaxis":{"gridcolor":"white","linecolor":"white","ticks":"","title":{"standoff":15},"zerolinecolor":"white","automargin":true,"zerolinewidth":2},"scene":{"xaxis":{"backgroundcolor":"#E5ECF6","gridcolor":"white","linecolor":"white","showbackground":true,"ticks":"","zerolinecolor":"white","gridwidth":2},"yaxis":{"backgroundcolor":"#E5ECF6","gridcolor":"white","linecolor":"white","showbackground":true,"ticks":"","zerolinecolor":"white","gridwidth":2},"zaxis":{"backgroundcolor":"#E5ECF6","gridcolor":"white","linecolor":"white","showbackground":true,"ticks":"","zerolinecolor":"white","gridwidth":2}},"shapedefaults":{"line":{"color":"#2a3f5f"}},"annotationdefaults":{"arrowcolor":"#2a3f5f","arrowhead":0,"arrowwidth":1},"geo":{"bgcolor":"white","landcolor":"#E5ECF6","subunitcolor":"white","showland":true,"showlakes":true,"lakecolor":"white"},"title":{"x":0.05}}},"margin":{"l":0,"r":0,"t":50,"b":0},"font":{"family":"system-ui, -apple-system, Segoe UI, sans-serif","color":"#52514e"},"scene":{"yaxis":{"title":{"text":"hours to expiry"},"type":"log"},"zaxis":{"title":{"text":"implied vol"},"tickformat":".0%"},"camera":{"eye":{"x":1.7,"y":-1.5,"z":0.8}},"xaxis":{"title":{"text":"moneyness (strike \u002f spot)"}}},"title":{"text":"Implied-vol surface: median across all clean snapshots"},"height":600,"paper_bgcolor":"#fcfcfb"},                        {"responsive": true}                    )                };            </script>        </div>
 </body>
 </html>

diff --git a/03_iv_surface.py b/03_iv_surface.py
@@ -160,7 +160,8 @@ def _(DERIVED, WRITE, iv, mo, np, pd, quotes, snapshots, write_parquet):
     iv_snapshots["clean"] = (iv_snapshots.atm_iv.notna() & (iv_snapshots.strikes_per_sd >= 2)
                              & (iv_snapshots.forward_basis_bps.abs() <= 25))
     iv_strikes = pd.concat(_strike_parts, ignore_index=True).merge(
-        iv_snapshots[["snap", "event_ticker", "ts", "tau_years", "hours_to_expiry", "forward", "atm_iv", "clean"]], on="snap")
+        iv_snapshots[["snap", "event_ticker", "ts", "spot", "tau_years", "hours_to_expiry", "forward", "atm_iv", "clean"]], on="snap")
+    iv_strikes["moneyness"] = iv_strikes.strike / iv_strikes.spot  # strike / exchange spot: the axis used in the charts
     iv_strikes["log_moneyness"] = np.log(iv_strikes.strike / iv_strikes.forward)
     iv_strikes["sd_from_forward"] = iv_strikes.log_moneyness / (iv_strikes.atm_iv * np.sqrt(iv_strikes.tau_years))
 
@@ -261,13 +262,13 @@ def _(CONTEXT, MUTED, SLOT1, W, alt, iv_strikes, pd):
         tip = [alt.Tooltip("strike:Q", format=",.0f"), alt.Tooltip("mid:Q", format=".3f", title="binary mid"),
                alt.Tooltip("iv:Q", format=".1%", title="integrated IV"), alt.Tooltip("digital_iv:Q", format=".1%", title="direct binary IV"),
                alt.Tooltip("option:N")]
-        base = alt.Chart(long).encode(x=alt.X("log_moneyness:Q", title="ln(strike / implied forward)"),
+        base = alt.Chart(long).encode(x=alt.X("moneyness:Q", title="moneyness (strike / spot)", scale=alt.Scale(zero=False), axis=alt.Axis(format=".2f")),
                                       y=alt.Y("vol:Q", title="implied vol", axis=alt.Axis(format="%"), scale=alt.Scale(zero=False)),
                                       color=color, tooltip=tip)
         chart = (
             base.transform_filter("datum.method == 'integrated vanilla IV'").mark_line(point=True)
             + base.transform_filter("datum.method == 'direct binary IV'").mark_point(filled=True, size=40, opacity=0.8)
-            + alt.Chart(pd.DataFrame({"x": [0.0]})).mark_rule(color=CONTEXT).encode(x="x:Q")
+            + alt.Chart(pd.DataFrame({"x": [1.0]})).mark_rule(color=CONTEXT).encode(x="x:Q")
         ).properties(width=W, height=280, title=(
             f"{row.event_ticker} · {row.hours_to_expiry:.1f}h to expiry · ATM {row.atm_iv:.1%} · "
             f"forward basis {row.forward_basis_bps:+.1f} bps · {'clean' if row.clean else 'not clean'}"))
@@ -290,26 +291,26 @@ def _(hours_slider, iv_snapshots, make_smile_chart, mo, week_select):
 
 @app.cell
 def _(CLEAN, H, SLOT1, SLOT2, W, alt, iv_snapshots, iv_strikes, mo, np, pd):
-    # Pooled surface: median implied vol by standard deviations from the forward x time to expiry (clean snapshots)
+    # Pooled surface: median implied vol by moneyness (strike / spot) x time to expiry (clean snapshots)
     _c = iv_strikes[iv_strikes.clean & iv_strikes.iv.notna()]
     TAU_LABELS = ["1–3h", "3–6h", "6–12h", "12–24h", "1–2d", "2–3d", "3–5d", "5–7d"]
     _tau = pd.cut(_c.hours_to_expiry, [1, 3, 6, 12, 24, 48, 72, 120, 170], labels=TAU_LABELS)
-    _z = pd.cut(_c.sd_from_forward, np.arange(-3, 3.01, 0.25))
+    _z = pd.cut(_c.moneyness, np.arange(0.85, 1.1501, 0.01))
     surface = (_c.assign(tau=_tau, z=_z).groupby(["tau", "z"], observed=True).iv.agg(["median", "size"])
                .reset_index().query("size >= 30"))
     surface["z_mid"] = surface.z.map(lambda i: round(i.mid, 3)).astype(float)
-    surface["z_lo"], surface["z_hi"] = surface.z_mid - 0.125, surface.z_mid + 0.125
+    surface["z_lo"], surface["z_hi"] = surface.z_mid - 0.005, surface.z_mid + 0.005
     surface = surface.drop(columns="z").astype({"tau": str})  # intervals/categoricals do not serialize to the chart
     surface_chart = (
         alt.Chart(surface).mark_rect()
-        .encode(x=alt.X("z_lo:Q", title="standard deviations from the implied forward  (ln(K/F) / (ATM vol · √τ))",
-                        scale=alt.Scale(domain=[-3, 3]), axis=alt.Axis(values=list(range(-3, 4)))),
+        .encode(x=alt.X("z_lo:Q", title="moneyness (strike / spot)",
+                        scale=alt.Scale(domain=[0.85, 1.15]), axis=alt.Axis(values=[0.85, 0.9, 0.95, 1.0, 1.05, 1.1, 1.15], format=".2f")),
                 x2="z_hi:Q",
                 y=alt.Y("tau:N", sort=TAU_LABELS[::-1], title="time to expiry"),
                 color=alt.Color("median:Q", title="median IV",
                                 scale=alt.Scale(range=["#cde2fb", "#0d366b"], domain=[0.35, 0.9], clamp=True),
                                 legend=alt.Legend(format="%")),
-                tooltip=["tau:N", alt.Tooltip("z_mid:Q", title="SDs from forward"), alt.Tooltip("median:Q", format=".1%"),
+                tooltip=["tau:N", alt.Tooltip("z_mid:Q", title="moneyness", format=".3f"), alt.Tooltip("median:Q", format=".1%"),
                          alt.Tooltip("size:Q", format=",", title="strike-snapshots")])
         .properties(title="Implied-vol surface: median across all clean snapshots", width=W, height=260)
     )
@@ -346,8 +347,8 @@ def _(CLEAN, H, SLOT1, SLOT2, W, alt, iv_snapshots, iv_strikes, mo, np, pd):
         surface_chart,
         mo.md(f"""
         Reading across a row gives the average smile at that time to expiry; reading down a column shows how
-        vol at a given distance from the forward changes as expiry approaches. Cells need at least 30
-        strike-snapshots; the color scale is capped at 35–90% so the body of the surface stays readable
+        vol at a given moneyness changes as expiry approaches. Cells need at least 30
+        strike-snapshots, and near expiry the strikes only span a narrow band of moneyness, so those rows are narrower; the color scale is capped at 35–90% so the body of the surface stays readable
         (the wings 3–6 hours before expiry exceed 100%).
         """),
         term_chart,
@@ -366,11 +367,11 @@ def _(CLEAN, H, SLOT1, SLOT2, W, alt, iv_snapshots, iv_strikes, mo, np, pd):
 
 @app.cell
 def _(INK2, go, iv_strikes, mo, np, pd):
-    # Rotatable 3D surface: median IV over standard deviations from the forward x hours to expiry (clean snapshots)
-    SD_EDGES = np.arange(-3, 3.01, 0.25)
+    # Rotatable 3D surface: median IV over moneyness (strike / spot) x hours to expiry (clean snapshots)
+    MONEYNESS_EDGES = np.arange(0.85, 1.1501, 0.01)
     _c = iv_strikes[iv_strikes.clean & iv_strikes.iv.notna()]
     _h_edges = [1, 2, 3, 4, 6, 8, 12, 16, 24, 36, 48, 72, 96, 120, 144, 168.5]
-    _g = (_c.assign(h=pd.cut(_c.hours_to_expiry, _h_edges), z=pd.cut(_c.sd_from_forward, SD_EDGES))
+    _g = (_c.assign(h=pd.cut(_c.hours_to_expiry, _h_edges), z=pd.cut(_c.moneyness, MONEYNESS_EDGES))
           .groupby(["h", "z"], observed=False).iv.agg(["median", "size"]))
     _grid = _g["median"].where(_g["size"] >= 30).unstack("z")
 
@@ -380,11 +381,11 @@ def _(INK2, go, iv_strikes, mo, np, pd):
         fig = go.Figure(go.Surface(
             x=x, y=y, z=z, colorscale=[[0, "#cde2fb"], [1, "#0d366b"]], cmin=0.35, cmax=0.9,
             colorbar=dict(title="IV", tickformat=".0%"),
-            hovertemplate="SDs from forward %{x:.2f}<br>hours to expiry %{y:.1f}<br>implied vol %{z:.1%}<extra></extra>"))
+            hovertemplate="moneyness %{x:.3f}<br>hours to expiry %{y:.1f}<br>implied vol %{z:.1%}<extra></extra>"))
         fig.update_layout(
             title=title, height=600, margin=dict(l=0, r=0, t=50, b=0), paper_bgcolor="#fcfcfb",
             font=dict(family="system-ui, -apple-system, Segoe UI, sans-serif", color=INK2),
-            scene=dict(xaxis_title="SDs from forward", yaxis=dict(title="hours to expiry", type="log"),
+            scene=dict(xaxis_title="moneyness (strike / spot)", yaxis=dict(title="hours to expiry", type="log"),
                        zaxis=dict(title="implied vol", tickformat=".0%"), camera=dict(eye=dict(x=1.7, y=-1.5, z=0.8))))
         return fig
 
@@ -396,14 +397,14 @@ def _(INK2, go, iv_strikes, mo, np, pd):
               "final hours are visible; cells need at least 30 strike-snapshots."),
         surface_3d,
     ])
-    return SD_EDGES, surface_3d, surface_figure
+    return MONEYNESS_EDGES, surface_3d, surface_figure
 
 
 @app.cell
-def _(SD_EDGES, iv_strikes, np, pd, surface_figure, week_select):
+def _(MONEYNESS_EDGES, iv_strikes, np, pd, surface_figure, week_select):
     # The selected weekly's own surface over its life (follows the weekly dropdown above)
     _w = iv_strikes[(iv_strikes.event_ticker == week_select.value) & iv_strikes.iv.notna()]
-    _g = (_w.assign(h=pd.cut(_w.hours_to_expiry, np.arange(0, 172, 2)), z=pd.cut(_w.sd_from_forward, SD_EDGES))
+    _g = (_w.assign(h=pd.cut(_w.hours_to_expiry, np.arange(0, 172, 2)), z=pd.cut(_w.moneyness, MONEYNESS_EDGES))
           .groupby(["h", "z"], observed=False).iv.median().unstack("z"))
     week_surface_3d = surface_figure([i.mid for i in _g.columns], [i.mid for i in _g.index], _g.to_numpy(),
                                      f"{week_select.value}: implied vol over the contract's life (2-hour bins)")
@@ -465,7 +466,8 @@ def _(WRITE, iv_snapshots, iv_strikes, mo):
     | `iv` | **Vanilla Black-Scholes implied vol** from that option |
     | `digital_iv` | Direct binary implied vol (comparison only; unreliable near the money) |
     | `forward`, `atm_iv`, `clean` | Snapshot's implied forward, ATM vol and clean flag |
-    | `log_moneyness`, `sd_from_forward` | ln(K / forward), and the same in standard deviations (ATM vol · √τ) |
+    | `moneyness` | strike / exchange spot (the axis used in the charts) |
+    | `log_moneyness`, `sd_from_forward` | ln(K / implied forward), and the same in standard deviations (ATM vol · √τ) |
 
     **`data/derived/iv_snapshots.parquet`**: one row per snapshot ({len(iv_snapshots):,} rows): `spot`, `forward`,
     `forward_basis_bps`, `n_strikes`, `n_empty_iv`, `monotone_fixes`, `sigma_low` / `sigma_high` (tail vols),
